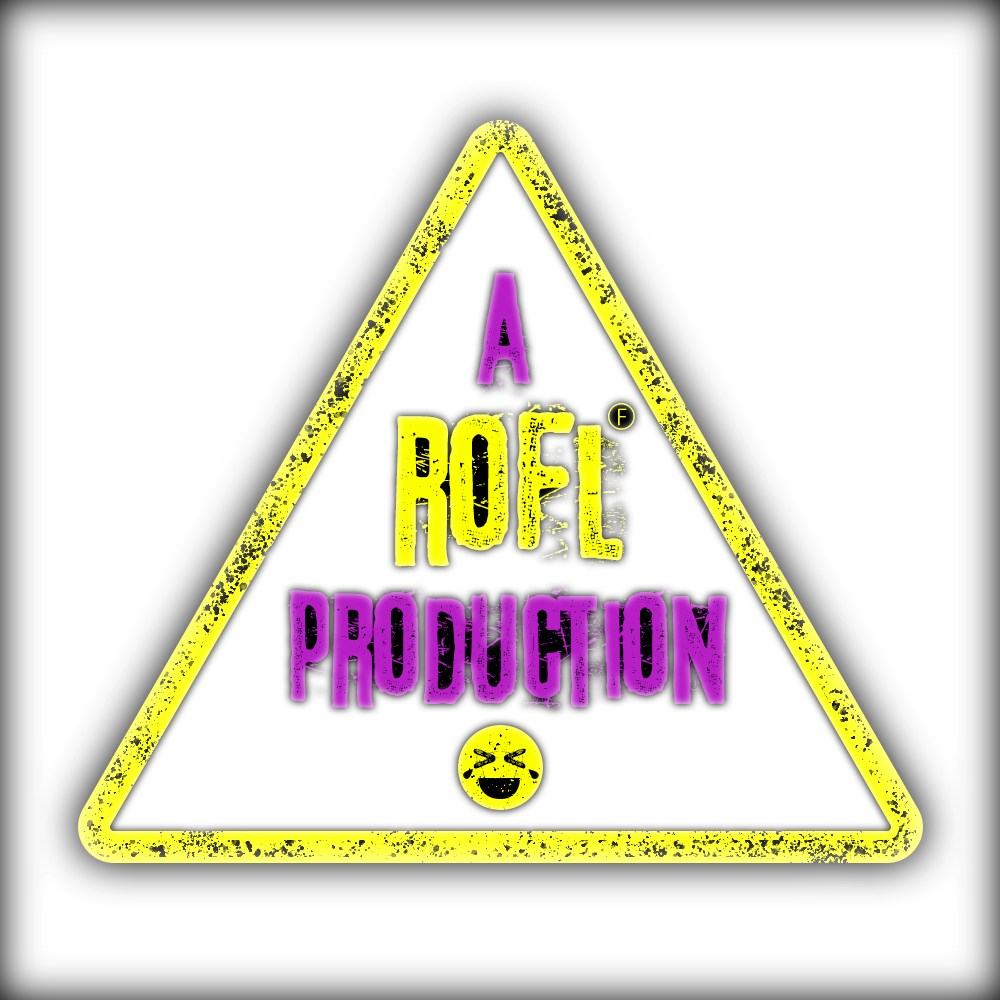
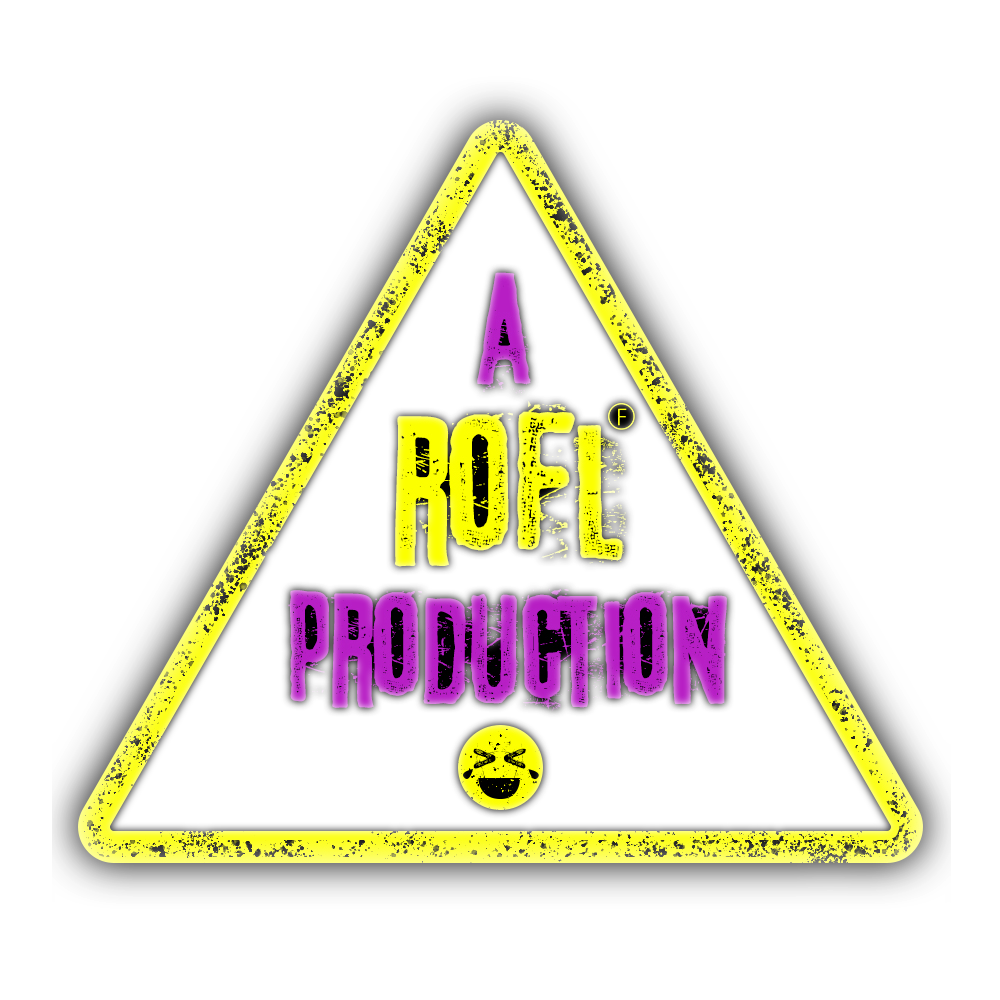
update

Changed region(s): [[0.0, 0.0, 1.0, 1.0]]

diff --git a/README.md b/README.md
@@ -274,6 +274,6 @@ For questions or issues, please open a GitHub issue.
 ---
 
 <div align="center">
-  <img src="https://raw.githubusercontent.com/moykul/vfxEngine/main/public/assets/roflStamp.jpg" alt="ROFL Production Logo" width="200"/>
+  <img src="https://raw.githubusercontent.com/moykul/vfxEngine/main/public/assets/roflStamp.png" alt="ROFL Production Logo" width="200"/>
   <p><strong>A ROFL Production</strong></p>
 </div>
